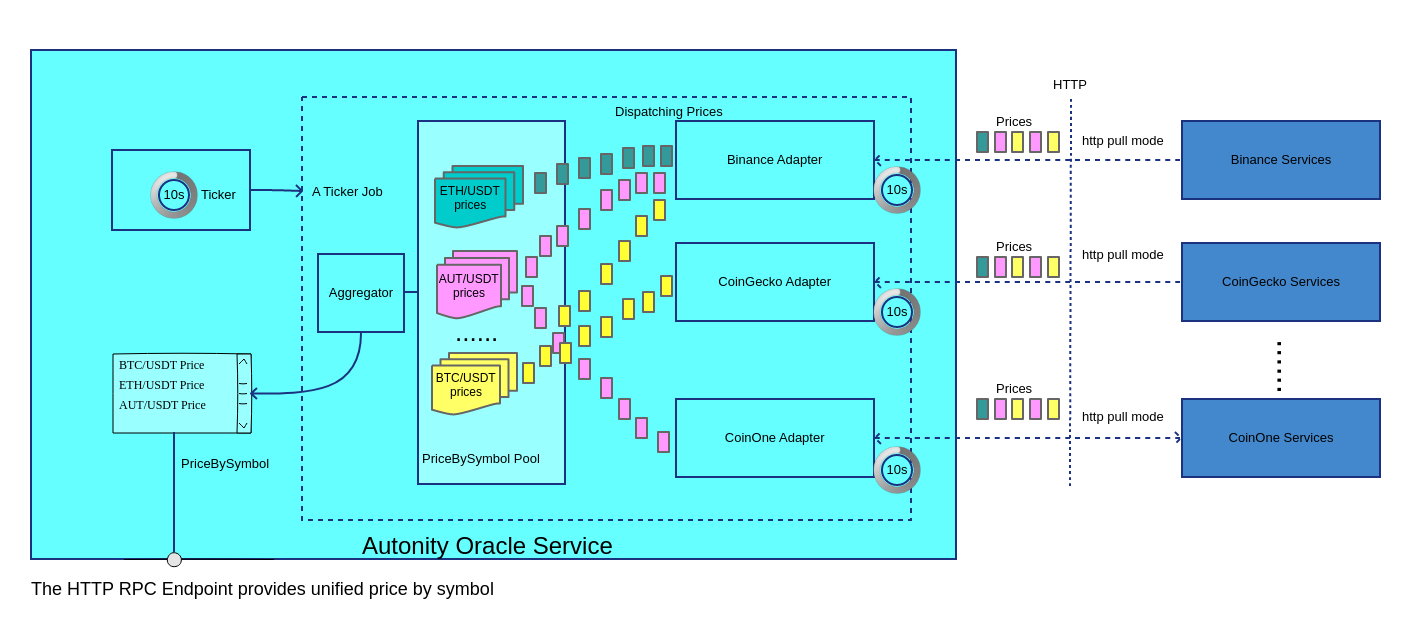
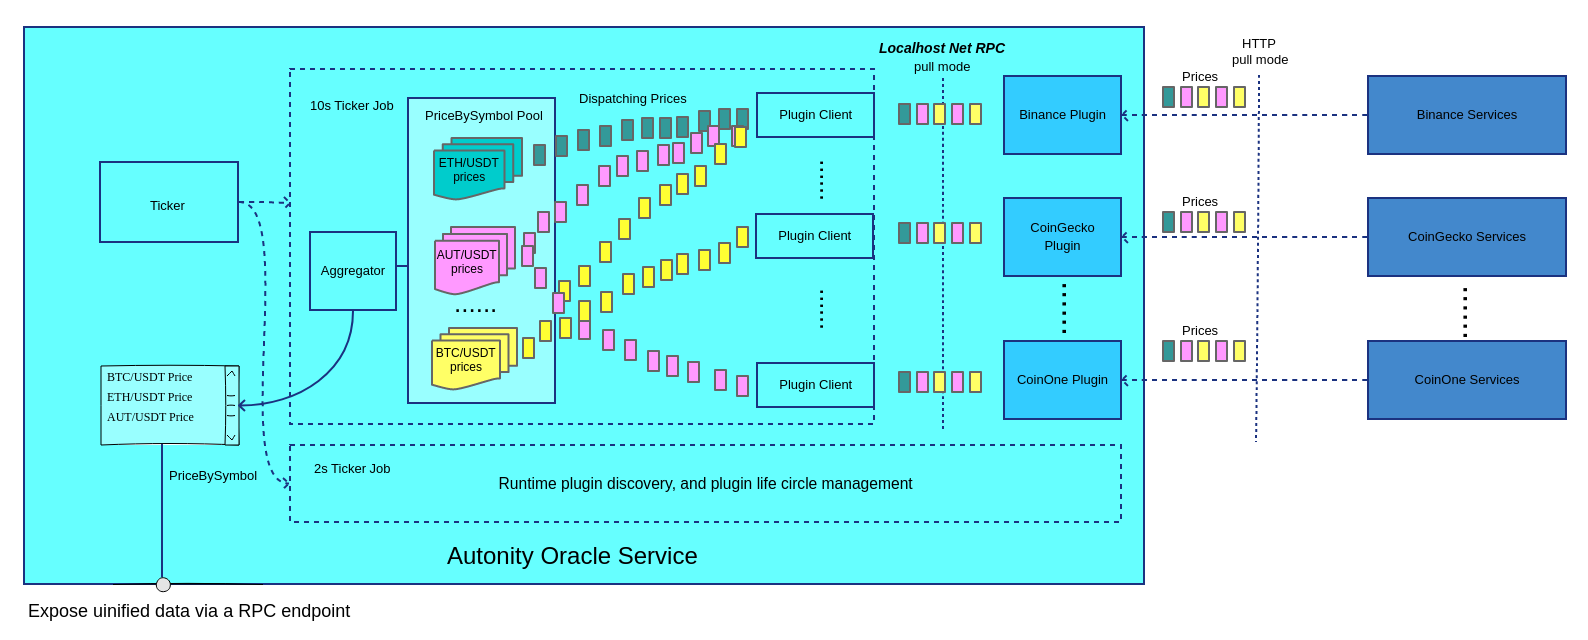
test and doc updates for the plugin based adapation of oracle service.

diff --git a/oracle_server/oracle_server.go b/oracle_server/oracle_server.go
@@ -7,7 +7,8 @@ import (
 	"autonity-oracle/types"
 	"github.com/shopspring/decimal"
 	"golang.org/x/sync/errgroup"
-	"io/ioutil"
+	"io/fs"
+	"io/ioutil" // nolint
 	"log"
 	o "os"
 	"sync"
@@ -54,11 +55,11 @@ func NewOracleServer(symbols []string, pluginDir string) *OracleServer {
 	}
 
 	// discover plugins from plugin dir at startup.
-	binaries := discoverPlugins(pluginDir)
-	for _, name := range binaries {
-		pluginClient := cryptoprovider.NewPluginClient(name, pluginDir)
-		pool := os.priceProviderPool.AddPriceProvider(pluginClient.Name())
-		os.pluginClients[name] = pluginClient
+	binaries := listPluginDIR(pluginDir)
+	for _, file := range binaries {
+		pluginClient := cryptoprovider.NewPluginClient(file.Name(), pluginDir)
+		pool := os.priceProviderPool.AddPriceProvider(file.Name())
+		os.pluginClients[file.Name()] = pluginClient
 		pluginClient.Initialize(pool)
 	}
 
@@ -148,7 +149,8 @@ func (os *OracleServer) Stop() {
 }
 
 func (os *OracleServer) Start() {
-	// start the jobTicker job to fetch prices for all the symbols from all pluginClients on every 10s.
+	// start the ticker job to fetch prices for all the symbols from all pluginClients on every 10s.
+	// start the ticker jot to discover plugins on every 2s.
 	for {
 		select {
 		case <-os.doneCh:
@@ -165,33 +167,49 @@ func (os *OracleServer) Start() {
 }
 
 func (os *OracleServer) PluginRuntimeDiscovery() {
-	binaries := discoverPlugins(os.pluginDIR)
+	binaries := listPluginDIR(os.pluginDIR)
 
-	for _, name := range binaries {
-		_, ok := os.pluginClients[name]
+	for _, file := range binaries {
+		plugin, ok := os.pluginClients[file.Name()]
 		if !ok {
-			log.Printf("set up newly discovered plugin: %s\n", name)
-			pluginClient := cryptoprovider.NewPluginClient(name, os.pluginDIR)
-			pool := os.priceProviderPool.AddPriceProvider(pluginClient.Name())
-			os.pluginClients[name] = pluginClient
+			log.Printf("set up newly discovered plugin: %s\n", file)
+			pluginClient := cryptoprovider.NewPluginClient(file.Name(), os.pluginDIR)
+			pool := os.priceProviderPool.AddPriceProvider(file.Name())
+			os.pluginClients[file.Name()] = pluginClient
 			pluginClient.Initialize(pool)
+			continue
+		}
+		// the plugin was created, now we check the modification time is after the creation time of the plugin,
+		// and try to replace the old plugin if we have to.
+		if file.ModTime().After(plugin.StartTime()) {
+			log.Printf("going to stop plugin with setting up a new version: %s\n", file.Name())
+			pricePool := os.priceProviderPool.GetPriceProvider(file.Name())
+			// stop the former plugins process, and disconnect the net rpc connection.
+			plugin.Close()
+			// release the former client from oracle service.
+			delete(os.pluginClients, file.Name())
+			pluginClient := cryptoprovider.NewPluginClient(file.Name(), os.pluginDIR)
+			os.pluginClients[file.Name()] = pluginClient
+			pluginClient.Initialize(pricePool)
+			log.Printf("finnish the replacement of plugin: %s\n", file.Name())
 		}
 	}
 }
 
-func discoverPlugins(pluginDir string) []string {
-	var plugins []string
+func listPluginDIR(pluginDir string) []fs.FileInfo {
+	var plugins []fs.FileInfo
 
 	files, err := ioutil.ReadDir(pluginDir)
 	if err != nil {
-		log.Fatal(err)
+		log.Printf("cannot read from plugin dir: %s, error: %s\n", plugins, err.Error())
+		return nil
 	}
 
 	for _, file := range files {
 		if file.Mode() != o.FileMode(0775) {
 			continue
 		}
-		plugins = append(plugins, file.Name())
+		plugins = append(plugins, file)
 	}
 	return plugins
 }

diff --git a/plugin_client/plugin_client.go b/plugin_client/plugin_client.go
@@ -9,6 +9,7 @@ import (
 	"log"
 	"os"
 	"os/exec"
+	"time"
 )
 
 var errConnectionNotEstablished = errors.New("connection not established yet")
@@ -18,6 +19,7 @@ type PluginClient struct {
 	client         *plugin.Client
 	clientProtocol plugin.ClientProtocol
 	name           string
+	startAt        time.Time
 }
 
 func NewPluginClient(name string, pluginDir string) *PluginClient {
@@ -37,18 +39,23 @@ func NewPluginClient(name string, pluginDir string) *PluginClient {
 	rpcClient := plugin.NewClient(&plugin.ClientConfig{
 		HandshakeConfig: types.HandshakeConfig,
 		Plugins:         pluginMap,
-		Cmd:             exec.Command(fmt.Sprintf("%s/%s", pluginDir, name)),
+		Cmd:             exec.Command(fmt.Sprintf("%s/%s", pluginDir, name)), //nolint
 		Logger:          logger,
 	})
 
 	return &PluginClient{
-		name:   name,
-		client: rpcClient,
+		name:    name,
+		client:  rpcClient,
+		startAt: time.Now(),
 	}
 }
 
 func (ba *PluginClient) Name() string {
 	return ba.name
+}
+
+func (ba *PluginClient) StartTime() time.Time {
+	return ba.startAt
 }
 
 func (ba *PluginClient) Initialize(pricePool types.PricePool) {
@@ -76,7 +83,7 @@ func (ba *PluginClient) FetchPrices(symbols []string) error {
 		ba.clientProtocol.Close() // no lint
 		ba.clientProtocol = nil
 		// try to reconnect during the runtime.
-		err := ba.connect()
+		err = ba.connect()
 		if err != nil {
 			return err
 		}

diff --git a/http_server/http_server_test.go b/http_server/http_server_test.go
@@ -24,7 +24,7 @@ func TestHttpServerAPIHandlers(t *testing.T) {
 			Error:  "",
 		}
 
-		oracle := oracleserver.NewOracleServer(conf.Symbols)
+		oracle := oracleserver.NewOracleServer(conf.Symbols, ".")
 		hs := NewHttpServer(oracle, conf.HTTPPort)
 
 		code, rspMsg := hs.getVersion(reqMsg)
@@ -49,7 +49,7 @@ func TestHttpServerAPIHandlers(t *testing.T) {
 			Result: nil,
 			Error:  "",
 		}
-		oracle := oracleserver.NewOracleServer(conf.Symbols)
+		oracle := oracleserver.NewOracleServer(conf.Symbols, ".")
 		for _, s := range conf.Symbols {
 			price := types.Price{
 				Timestamp: 0,
@@ -90,7 +90,7 @@ func TestHttpServerAPIHandlers(t *testing.T) {
 			Result: nil,
 			Error:  "",
 		}
-		oracle := oracleserver.NewOracleServer(conf.Symbols)
+		oracle := oracleserver.NewOracleServer(conf.Symbols, ".")
 		hs := NewHttpServer(oracle, conf.HTTPPort)
 		code, rspMsg := hs.updateSymbols(reqMsg)
 		require.Equal(t, http.StatusOK, code)

diff --git a/types/plugin_spec.go b/types/plugin_spec.go
@@ -48,16 +48,8 @@ func (s *AdapterRPCServer) FetchPrices(symbols []string, resp *[]Price) error {
 	return nil
 }
 
-// This is the implementation of plugin.Plugin so we can serve/consume this
-//
-// This has two methods: Server must return an RPC server for this plugin
-// type. We construct a AdapterRPCServer for this.
-//
-// Client must return an implementation of our interface that communicates
-// over an RPC client. We return AdapterRPCClient for this.
-//
-// Ignore MuxBroker. That is used to create more multiplexed streams on our
-// plugin connection and is a more advanced use case.
+// AdapterPlugin is the unified implementation of plugins, all the 3rd parties plugins need to inject their
+// implementation by using this structure in their source code.
 type AdapterPlugin struct {
 	// Impl Injection
 	Impl Adapter

diff --git a/oracle_server/oracle_server_test.go b/oracle_server/oracle_server_test.go
@@ -10,7 +10,7 @@ import (
 func TestOracleServer(t *testing.T) {
 	var symbols = []string{"NTNETH", "NTNBTC", "NTNUSDC"}
 	t.Run("oracle service getters", func(t *testing.T) {
-		os := NewOracleServer(symbols)
+		os := NewOracleServer(symbols, ".")
 		version := os.Version()
 		require.Equal(t, Version, version)
 		actualSymbols := os.Symbols()
@@ -21,7 +21,7 @@ func TestOracleServer(t *testing.T) {
 
 	t.Run("oracle service setters", func(t *testing.T) {
 		newSymbols := []string{"NTNRMB", "NTNUSD", "NTNGBP"}
-		os := NewOracleServer(symbols)
+		os := NewOracleServer(symbols, ".")
 		os.UpdateSymbols(newSymbols)
 		require.Equal(t, newSymbols, os.Symbols())
 

diff --git a/config/config_test.go b/config/config_test.go
@@ -9,6 +9,7 @@ import (
 var (
 	EnvHTTPPort      = "ORACLE_HTTP_PORT"
 	EnvCryptoSymbols = "ORACLE_CRYPTO_SYMBOLS"
+	EnvPluginDIR     = "ORACLE_PLUGIN_DIR"
 )
 
 func TestMakeConfigWithConfiguration(t *testing.T) {
@@ -17,8 +18,12 @@ func TestMakeConfigWithConfiguration(t *testing.T) {
 		require.NoError(t, err)
 		err = os.Setenv(EnvCryptoSymbols, "NTNBTC,NTNUSDT,NTNUSDC,  ")
 		require.NoError(t, err)
+		err = os.Setenv(EnvPluginDIR, "./")
+		require.NoError(t, err)
+
 		conf := MakeConfig()
 		require.Equal(t, 20000, conf.HTTPPort)
 		require.Equal(t, []string{"NTNBTC", "NTNUSDT", "NTNUSDC"}, conf.Symbols)
+		require.Equal(t, "./", conf.PluginDIR)
 	})
 }

diff --git a/main.go b/main.go
@@ -16,8 +16,8 @@ import (
 func main() { //nolint
 	// create config from system environment variables or from console flags.
 	conf := config.MakeConfig()
-	log.Printf("Start to run autonity oracle service at port: %d, with symbols: %s.\n", conf.HTTPPort,
-		strings.Join(conf.Symbols, ","))
+	log.Printf("Start to run autonity oracle service at port: %d, with symbols: %s and plugin diretory: %s.\n\n",
+		conf.HTTPPort, strings.Join(conf.Symbols, ","), conf.PluginDIR)
 
 	// create oracle service and start the ticker job.
 	oracle := oracleserver.NewOracleServer(conf.Symbols, conf.PluginDIR)

diff --git a/config/config.go b/config/config.go
@@ -17,7 +17,7 @@ func MakeConfig() *types.OracleServiceConfig {
 	var symbols string
 	var pluginDir string
 
-	flag.StringVar(&pluginDir, "oracle_plugin_dir", DefaultPluginDir, "The DIR where the adapter plugin binary is stored")
+	flag.StringVar(&pluginDir, "oracle_plugin_dir", DefaultPluginDir, "The DIR where the adapter plugins are stored")
 	flag.IntVar(&port, "oracle_http_port", DefaultPort, "The HTTP service port to be bind for oracle service")
 	flag.StringVar(&symbols, "oracle_crypto_symbols", DefaultSymbols, "The symbols string separated by comma")
 	flag.Parse()

diff --git a/price_pool/price_pool_test.go b/price_pool/price_pool_test.go
@@ -1,7 +1,6 @@
 package pricepool
 
 import (
-	"autonity-oracle/plugin_client"
 	"autonity-oracle/types"
 	"github.com/shopspring/decimal"
 	"github.com/stretchr/testify/require"
@@ -9,7 +8,7 @@ import (
 )
 
 func TestPriceProvider(t *testing.T) {
-	provider := pluginclient.Binance
+	provider := "binance"
 	NTNUSDC := "NTNUSDC"
 	NTNETH := "NTNUETH"
 	t.Run("Add price and get price", func(t *testing.T) {

diff --git a/e2e_test/e2e_test.go b/e2e_test/e2e_test.go
@@ -25,7 +25,7 @@ func TestAutonityOracleAPIs(t *testing.T) {
 
 	conf := config.MakeConfig()
 	// create oracle service and start the ticker job.
-	oracle := oracleserver.NewOracleServer(conf.Symbols)
+	oracle := oracleserver.NewOracleServer(conf.Symbols, "../build/bin/plugins")
 	go oracle.Start()
 	defer oracle.Stop()
 

diff --git a/types/types.go b/types/types.go
@@ -3,6 +3,7 @@ package types
 import (
 	"encoding/json"
 	"github.com/shopspring/decimal"
+	"time"
 )
 
 var SimulatedPrice = decimal.RequireFromString("11.11")
@@ -19,6 +20,7 @@ type PluginClient interface {
 	Name() string
 	FetchPrices(symbols []string) error
 	Close()
+	StartTime() time.Time
 }
 
 type Price struct {
